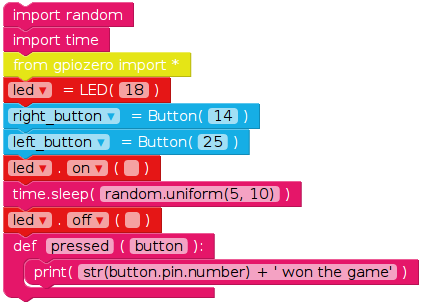
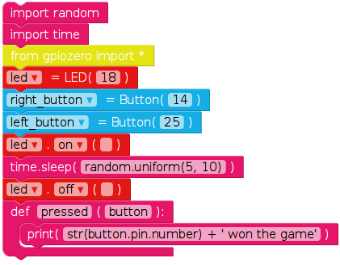
made minor changes to make the worksheet printer friendly V1.01

diff --git a/Worksheet/QuickReactionGame 02.md b/Worksheet/QuickReactionGame 02.md
@@ -17,6 +17,8 @@ Using the components within this kit create the circuit below.
 
 ![Reaction Diagram](Images/Reaction.png)
 
+<div class="page-break"></div>
+
 ## Opening EduBlocks
 
 If EduBlocks is not already open double click on ![EduBlocks Logo](Images/EduBlocks.png) This should be located on your Desktop.
@@ -44,6 +46,8 @@ If your LED does not turn on for 5 seconds and turn off again. you need to go ba
 ## Adding an Elemment of Surprise
 The object of the game is to see who can press their button first when the LED goes off, so to make this better would be if the length of time the LED stayed on were random. You need to edit your code to make this happen.
 
+<div class="page-break"></div>
+
 ### Code
 ![Code 02](Images/Code02.png)
 
@@ -59,6 +63,8 @@ Now that the LED is working, it is time to get the buttons working, so you can d
 
 * To locate the blue code blocks click on ![gpiozero](Images/GPIO_Zero.png) --> ![Inputs](Images/Inputs.png) --> ![Button](Images/Button.png)
 
+<div class="page-break"></div>
+
 ## Writing the Function
 At the end of the code we are now going to add a function, that will be called everytime a button is pressed.
 
@@ -69,6 +75,8 @@ At the end of the code we are now going to add a function, that will be called e
 ## Adding the function to the buttons
 We now need to add code to the buttons, so when they are pressed they call the function that we created
 
+<div class="page-break"></div>
+
 ### Code
 
 ![code05](Images/Code05.png)
@@ -77,3 +85,20 @@ Now grab a friend and try out your game.
 
 ## Getting Player Names
 Lets get players names, so the program will tell you who won, rather than which button was pressed.
+
+To add the player names locate ![ = ](Images/Blank.png) and edit them to look like the code below.
+
+<div class="page-break"></div>
+
+### Code
+
+![Code 06](Images/Code06.png)
+
+## Editing the function
+
+We now need to edit our function to output the name of the winner.
+
+<div class="page-break"></div>
+
+### Code
+![code 07](Images/Code07.png)
